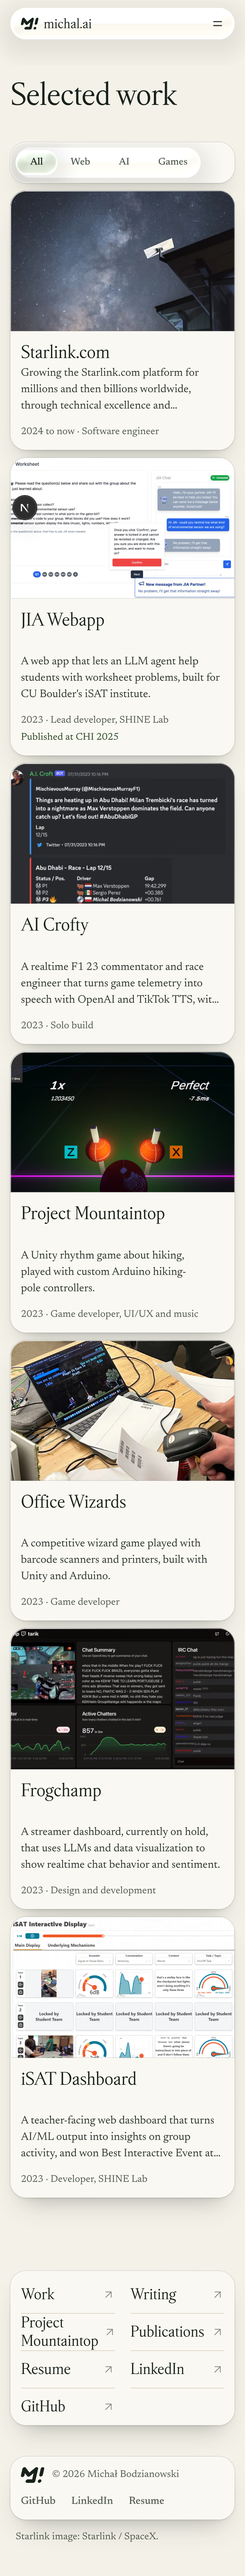
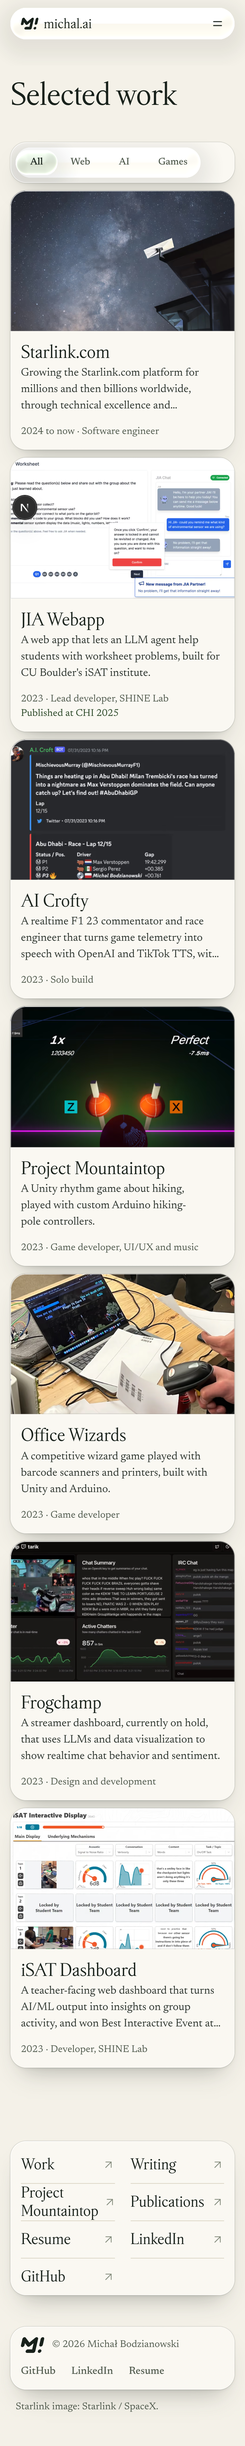
Tiles: subgrid rows (image/title/description/meta) instead of reserved title lines; publication ref text-wrap pretty; alignment checks for description tops and one-line gap

Changed region(s): [[0.0307, 0.0, 0.9813, 0.9992]]

diff --git a/apps/michal-ai/components/work/cards.css b/apps/michal-ai/components/work/cards.css
@@ -143,11 +143,11 @@
   padding: var(--card-pad);
   min-width: 0;
 }
-/* Title first, directly under the image at a fixed offset: a row of tiles shares one title baseline. Two lines are always
-   reserved so descriptions also start together; the meta line is pinned to the foot so those align too. */
+/* Title first, directly under the image at a fixed offset: a row of tiles shares one title baseline. Where the browser has
+   subgrid (below) each row of tiles shares image / title / description / meta tracks, so the title track is only as tall as
+   the tallest title in that row and a row of one-line titles has no empty line. Without subgrid, two title lines are reserved. */
 .tile__title {
   font-size: 28px;
-  min-height: 2.3em;
   text-wrap: balance;
   display: -webkit-box;
   -webkit-line-clamp: 2;
@@ -163,18 +163,60 @@
   overflow: hidden;
 }
 /* tertiary: the smallest size on the scale (t-meta), muted ink, pinned to the foot of the card */
-.tile__meta {
+.tile__foot {
   margin-top: auto;
   padding-top: var(--space-3);
+}
+.tile__meta {
   color: var(--ink-muted);
   text-wrap: balance;
 }
-.tile__meta + .tile__meta {
-  margin-top: 0;
-  padding-top: 0;
+
+/* no subgrid: reserve two title lines so descriptions still start together; phone snap rows are flex, so they always reserve */
+@supports not (grid-template-rows: subgrid) {
+  .tile__title {
+    min-height: 2.3em;
+  }
 }
-.tile--feature .tile__title {
-  min-height: 0;
+@media (max-width: 639px) {
+  .tiles--row .tile__title {
+    min-height: 2.3em;
+  }
+}
+
+/* subgrid: li spans four tracks of the list grid (image, title, description, meta), the tile and its body re-use them */
+@supports (grid-template-rows: subgrid) {
+  @media (min-width: 640px) {
+    .tiles > li:not(.tiles__feature) {
+      display: grid;
+      grid-row: span 4;
+      grid-template-rows: subgrid;
+      row-gap: 0;
+    }
+    .tiles > li:not(.tiles__feature) > .tile {
+      display: grid;
+      grid-row: 1 / -1;
+      grid-template-rows: subgrid;
+      row-gap: 0;
+    }
+    .tiles > li:not(.tiles__feature) .tile__media {
+      grid-row: 1;
+    }
+    .tiles > li:not(.tiles__feature) .tile__body {
+      display: grid;
+      grid-row: 2 / span 3;
+      grid-template-rows: subgrid;
+      row-gap: var(--space-1);
+    }
+    .tiles > li:not(.tiles__feature) .tile__foot {
+      align-self: end;
+    }
+  }
+}
+@media (min-width: 640px) {
+  .tiles .tile--feature .tile__title {
+    min-height: 0;
+  }
 }
 
 /* feature: image beside the text from 900px up */

diff --git a/apps/michal-ai/components/work/Showcase.tsx b/apps/michal-ai/components/work/Showcase.tsx
@@ -94,10 +94,12 @@ export function ProjectCard({
         <p id={`${id}-d`} className="tile__desc t-text">
           {post.description}
         </p>
-        <p className="tile__meta t-meta">
-          <MetaParts parts={metaParts} />
-        </p>
-        {pub ? <p className="tile__meta tile__pub t-meta">Published at {pub.venueShort}</p> : null}
+        <div className="tile__foot">
+          <p className="tile__meta t-meta">
+            <MetaParts parts={metaParts} />
+          </p>
+          {pub ? <p className="tile__meta tile__pub t-meta">Published at {pub.venueShort}</p> : null}
+        </div>
       </div>
     </Link>
   )

diff --git a/apps/michal-ai/components/site/about.css b/apps/michal-ai/components/site/about.css
@@ -50,6 +50,7 @@
 .pub__ref {
   grid-column: 1;
   margin: 0;
+  text-wrap: pretty;
 }
 .pub__year {
   grid-column: 2;
